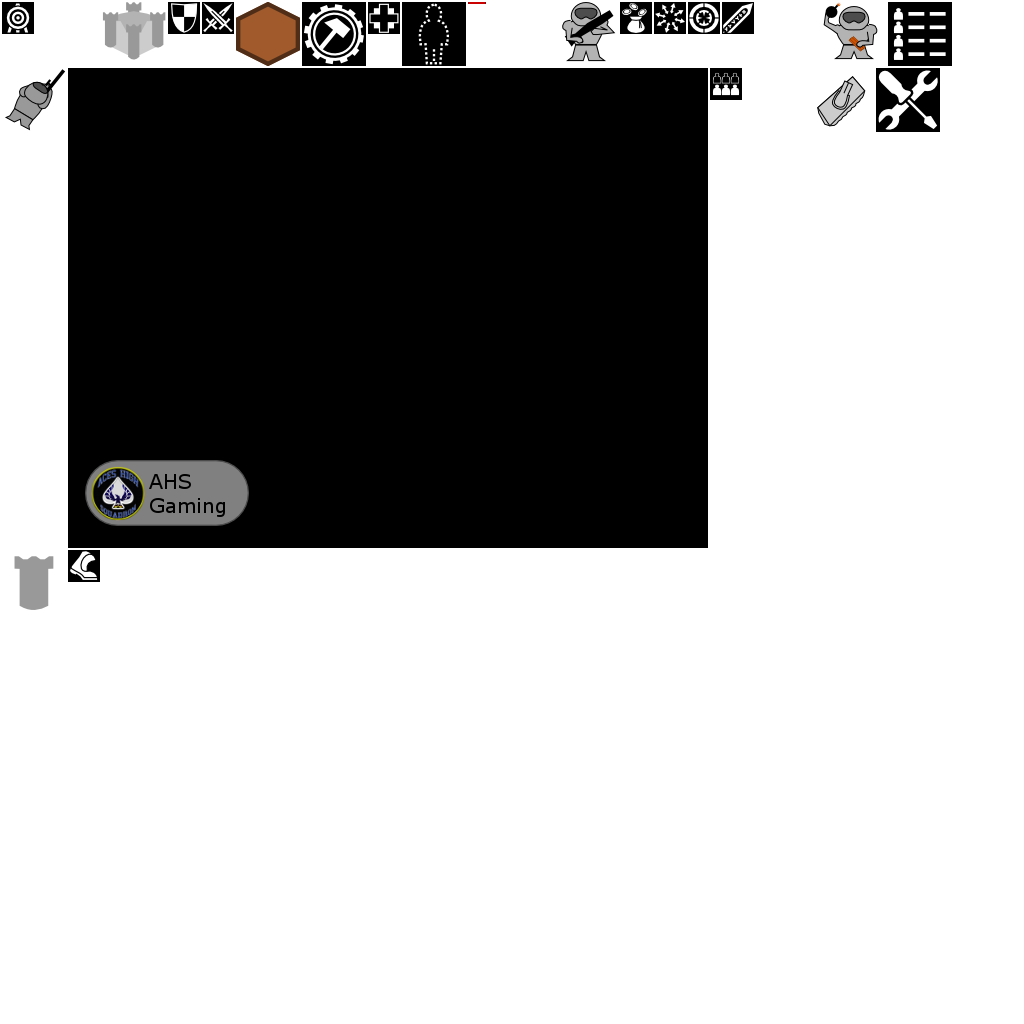
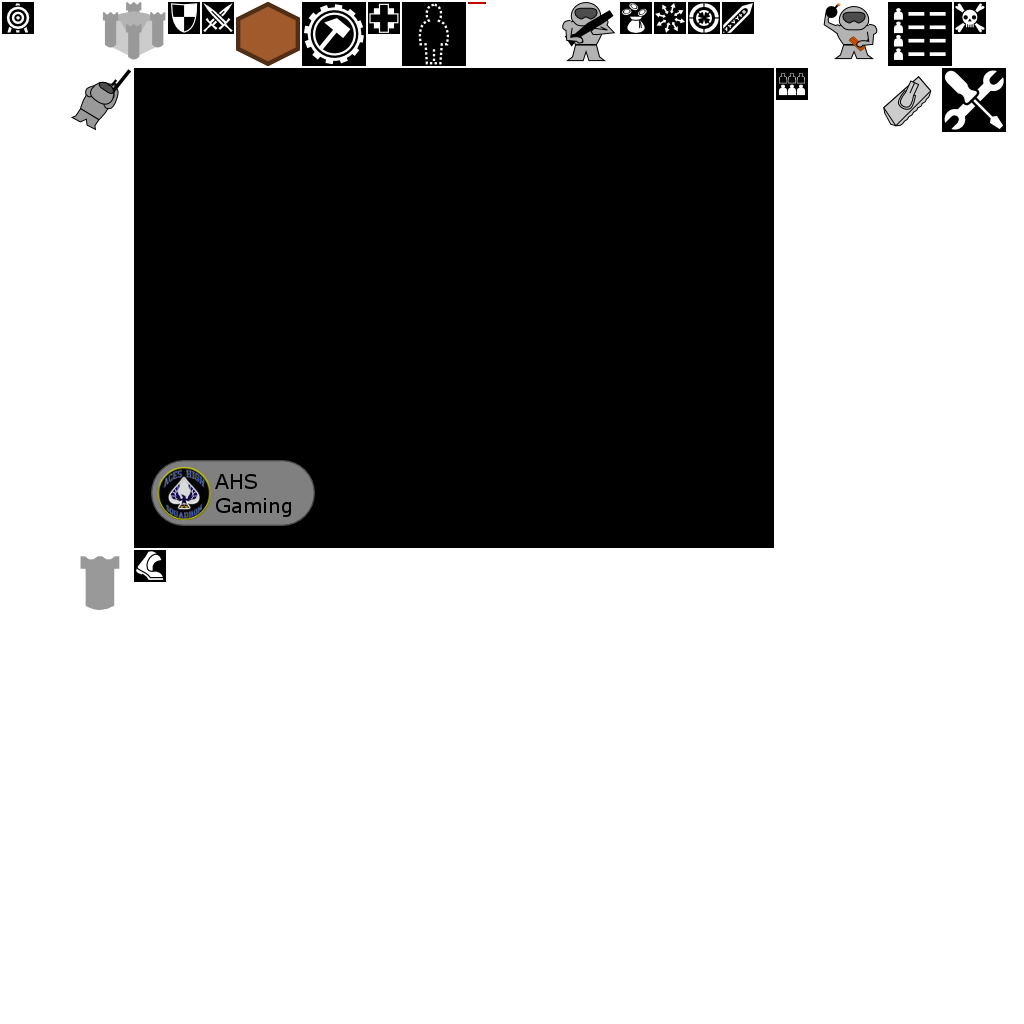
Added UI button for refund

Changed region(s): [[0.0, 0.0625, 0.3125, 0.5938], [0.6875, 0.0625, 1.0, 0.5625], [0.9062, 0.0, 0.9688, 0.0312]]

diff --git a/src/com/ahsgaming/valleyofbones/screens/panels/InfoPanel.java b/src/com/ahsgaming/valleyofbones/screens/panels/InfoPanel.java
@@ -5,7 +5,9 @@ import com.ahsgaming.valleyofbones.VOBGame;
 import com.ahsgaming.valleyofbones.screens.LevelScreen;
 import com.ahsgaming.valleyofbones.units.ProgressBar;
 import com.ahsgaming.valleyofbones.units.Unit;
+import com.badlogic.gdx.Gdx;
 import com.badlogic.gdx.graphics.g2d.SpriteBatch;
+import com.badlogic.gdx.scenes.scene2d.Actor;
 import com.badlogic.gdx.scenes.scene2d.InputEvent;
 import com.badlogic.gdx.scenes.scene2d.ui.Image;
 import com.badlogic.gdx.scenes.scene2d.ui.Label;
@@ -30,16 +32,17 @@ public class InfoPanel extends Panel {
     final String MOVE = "%d";
     final String ATTACK_LEFT = "%d";
     final String MOVE_LEFT = "%d";
+    final String REFUND = "$%d";
 
-    Label lblTitle, lblHealth, lblAttack, lblRange, lblArmor, lblMove, lblAttacksLeft, lblMovesLeft;
-    Image iconHealth, iconAttack, iconRange, iconArmor, iconMove, iconAttacksLeft, iconMovesLeft;
+    Label lblTitle, lblHealth, lblAttack, lblRange, lblArmor, lblMove, lblAttacksLeft, lblMovesLeft, lblRefund;
+    Image iconHealth, iconAttack, iconRange, iconArmor, iconMove, iconAttacksLeft, iconMovesLeft, iconRefund;
 
     Unit selected;
 
     ProgressBar healthBar;
 
-    public InfoPanel(VOBGame game, LevelScreen levelScreen, String icon, Skin skin) {
-        super(game, levelScreen, icon, skin);
+    public InfoPanel(VOBGame game, LevelScreen lvlScreen, String icon, Skin skin) {
+        super(game, lvlScreen, icon, skin);
         this.skin = skin;
         this.horizontal = false;
 
@@ -50,6 +53,27 @@ public class InfoPanel extends Panel {
         iconMove = new Image(TextureManager.getSpriteFromAtlas("assets", "radial-balance"));
         iconMovesLeft = new Image(TextureManager.getSpriteFromAtlas("assets", "walking-boot"));
         iconAttacksLeft = new Image(TextureManager.getSpriteFromAtlas("assets", "rune-sword"));
+        iconRefund = new Image(TextureManager.getSpriteFromAtlas("assets", "skull-crossed-bones"));
+
+        iconRefund.addListener(new ClickListener() {
+            @Override
+            public void clicked(InputEvent event, float x, float y) {
+                super.clicked(event, x, y);
+                levelScreen.refundUnit(selected);
+            }
+
+            @Override
+            public boolean touchDown(InputEvent event, float x, float y, int pointer, int button) {
+                levelScreen.setClickInterrupt(true);
+                return super.touchDown(event, x, y, pointer, button);
+            }
+
+            @Override
+            public void touchUp(InputEvent event, float x, float y, int pointer, int button) {
+                super.touchUp(event, x, y, pointer, button);
+                levelScreen.setClickInterrupt(false);
+            }
+        });
 
         lblTitle = new Label("Nothing selected", skin, "medium");
         lblHealth = new Label(String.format(HEALTH, 0, 0), skin, "small");
@@ -59,10 +83,13 @@ public class InfoPanel extends Panel {
         lblMove = new Label(String.format(MOVE, 0), skin, "medium");
         lblAttacksLeft = new Label(String.format(ATTACK_LEFT, 0), skin, "medium");
         lblMovesLeft = new Label(String.format(MOVE_LEFT, 0), skin, "medium");
+        lblRefund = new Label(String.format(REFUND, 0), skin, "medium");
 
         healthBar = new ProgressBar();
         healthBar.setSize(lblHealth.getWidth(), 4);
         expanded = true;
+
+
     }
 
     @Override
@@ -87,6 +114,8 @@ public class InfoPanel extends Panel {
             labels.add(lblAttacksLeft);
             lblMovesLeft.setText(String.format(MOVE_LEFT, selected.getMovesLeft()));
             labels.add(lblMovesLeft);
+            lblRefund.setText(String.format(REFUND, selected.getRefund()));
+            labels.add(lblRefund);
 
             for (Label lbl: labels) {
                 lbl.invalidate();
@@ -96,6 +125,7 @@ public class InfoPanel extends Panel {
 
             healthBar.setSize(lblHealth.getWidth(), 4);
             healthBar.setCurrent((float)selected.getCurHP() / selected.getMaxHP());
+
         }
 
         dirty = true;
@@ -122,6 +152,16 @@ public class InfoPanel extends Panel {
 
         int y = 0;
         float x = 0;
+
+        if (levelScreen.canRefund(selected)) {
+            iconRefund.setPosition(0, y);
+            addActor(iconRefund);
+
+            lblRefund.setPosition(iconRefund.getRight(), y);
+            addActor(lblRefund);
+            y += iconRefund.getHeight();
+
+        }
 
         iconMovesLeft.setPosition(0, y);
         addActor(iconMovesLeft);

diff --git a/src/com/ahsgaming/valleyofbones/screens/LevelScreen.java b/src/com/ahsgaming/valleyofbones/screens/LevelScreen.java
@@ -94,6 +94,7 @@ public class LevelScreen extends AbstractScreen {
     ScorePanel scorePanel;
     ScorePanel.PlayerScore playerScore;
 
+    boolean clickInterrupt = false;
 
 	private boolean vKeyDown = false, bKeyDown = false, delKeyDown = false;
 
@@ -262,12 +263,14 @@ public class LevelScreen extends AbstractScreen {
                 }
 
 			} else {						
-				gController.selectObjAtBoardPos(boardPos);
-				if (gController.getSelectedObject() != null && gController.getSelectedObject() instanceof Unit) {
-					Unit u = (Unit)gController.getSelectedObject();
-					Gdx.app.log(LOG, String.format("Selected: %s (%d/%d)", u.getProtoId(), u.getCurHP(), u.getMaxHP()));
-                    gController.getMap().highlightArea(u.getBoardPosition(), u.getMovesLeft(), true);
-				}
+				if (!clickInterrupt) {
+                    gController.selectObjAtBoardPos(boardPos);
+                    if (gController.getSelectedObject() != null && gController.getSelectedObject() instanceof Unit) {
+                        Unit u = (Unit)gController.getSelectedObject();
+                        Gdx.app.log(LOG, String.format("Selected: %s (%d/%d)", u.getProtoId(), u.getCurHP(), u.getMaxHP()));
+                        gController.getMap().highlightArea(u.getBoardPosition(), u.getMovesLeft(), true);
+                    }
+                }
 			}
 		}
 		
@@ -365,21 +368,29 @@ public class LevelScreen extends AbstractScreen {
 
         if (Gdx.input.isKeyPressed(Keys.FORWARD_DEL)) {
             if (!delKeyDown && gController.getSelectedObject() != null && gController.getSelectedObject() instanceof Unit) {
-                if (gController.canPlayerRefundUnit(game.getPlayer(), (Unit)gController.getSelectedObject())) {
-                    int refund = ((Unit)gController.getSelectedObject()).getRefund();
-                    Refund r = new Refund();
-                    r.owner = game.getPlayer().getPlayerId();
-                    r.turn = gController.getGameTurn();
-                    r.unit = gController.getSelectedObject().getObjId();
-                    game.sendCommand(r);
-                    addFloatingLabel(String.format("+$%02d", refund), gController.getSelectedObject().getX() + gController.getSelectedObject().getWidth() * 0.5f, gController.getSelectedObject().getY());
-                }
+                refundUnit((Unit)gController.getSelectedObject());
             }
             delKeyDown = true;
         } else {
             delKeyDown = false;
         }
 	}
+
+    public boolean canRefund(Unit unit) {
+        return gController.canPlayerRefundUnit(game.getPlayer(), unit);
+    }
+
+    public void refundUnit(Unit unit) {
+        if (canRefund(unit)) {
+            int refund = unit.getRefund();
+            Refund r = new Refund();
+            r.owner = game.getPlayer().getPlayerId();
+            r.turn = gController.getGameTurn();
+            r.unit = unit.getObjId();
+            game.sendCommand(r);
+            addFloatingLabel(String.format("+$%02d", refund), unit.getX() + unit.getWidth() * 0.5f, unit.getY());
+        }
+    }
 
     public void setBuildMode(Prototypes.JsonProto proto) {
         if (buildMode) unsetBuildMode();
@@ -400,7 +411,14 @@ public class LevelScreen extends AbstractScreen {
         }
     }
 	
-	
+	public boolean getClickInterrupt() {
+        return clickInterrupt;
+    }
+
+    public void setClickInterrupt(boolean interrupt) {
+        clickInterrupt = interrupt;
+    }
+
 	public Vector2 screenToMapCoords(float x, float y) {
 		return new Vector2(x + (posCamera.x - stage.getWidth() * 0.5f), y + (posCamera.y - stage.getHeight() * 0.5f));  
 	}

diff --git a/src/com/ahsgaming/valleyofbones/GameController.java b/src/com/ahsgaming/valleyofbones/GameController.java
@@ -522,7 +522,8 @@ public class GameController {
 	}
 
     public boolean canPlayerRefundUnit(Player player, Unit unit) {
-        return player == currentPlayer && unit.getOwner() == player
+        return player != null && unit != null
+                && player == currentPlayer && unit.getOwner() == player
                 && !unit.getType().equals("building")
                 && gameObjects.contains(unit, true)
                 && !unit.isRemove();

diff --git a/src/com/ahsgaming/valleyofbones/screens/panels/Panel.java b/src/com/ahsgaming/valleyofbones/screens/panels/Panel.java
@@ -4,6 +4,7 @@ import com.ahsgaming.valleyofbones.TextureManager;
 import com.ahsgaming.valleyofbones.VOBGame;
 import com.ahsgaming.valleyofbones.screens.LevelScreen;
 import com.ahsgaming.valleyofbones.units.Prototypes;
+import com.badlogic.gdx.Gdx;
 import com.badlogic.gdx.math.Vector2;
 import com.badlogic.gdx.scenes.scene2d.Group;
 import com.badlogic.gdx.scenes.scene2d.InputEvent;
